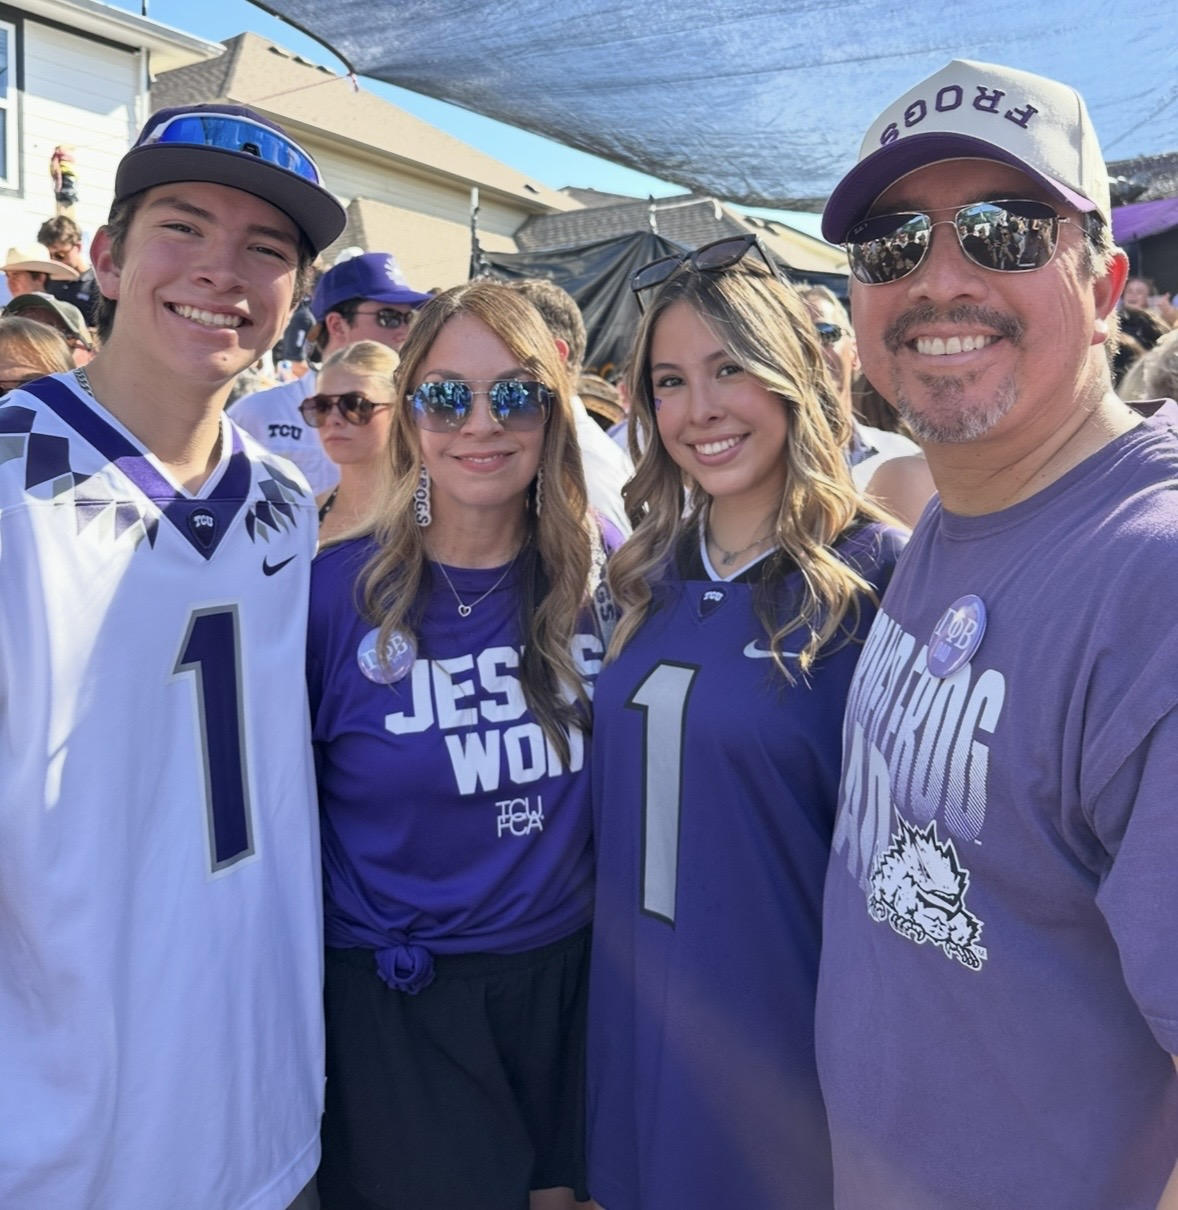
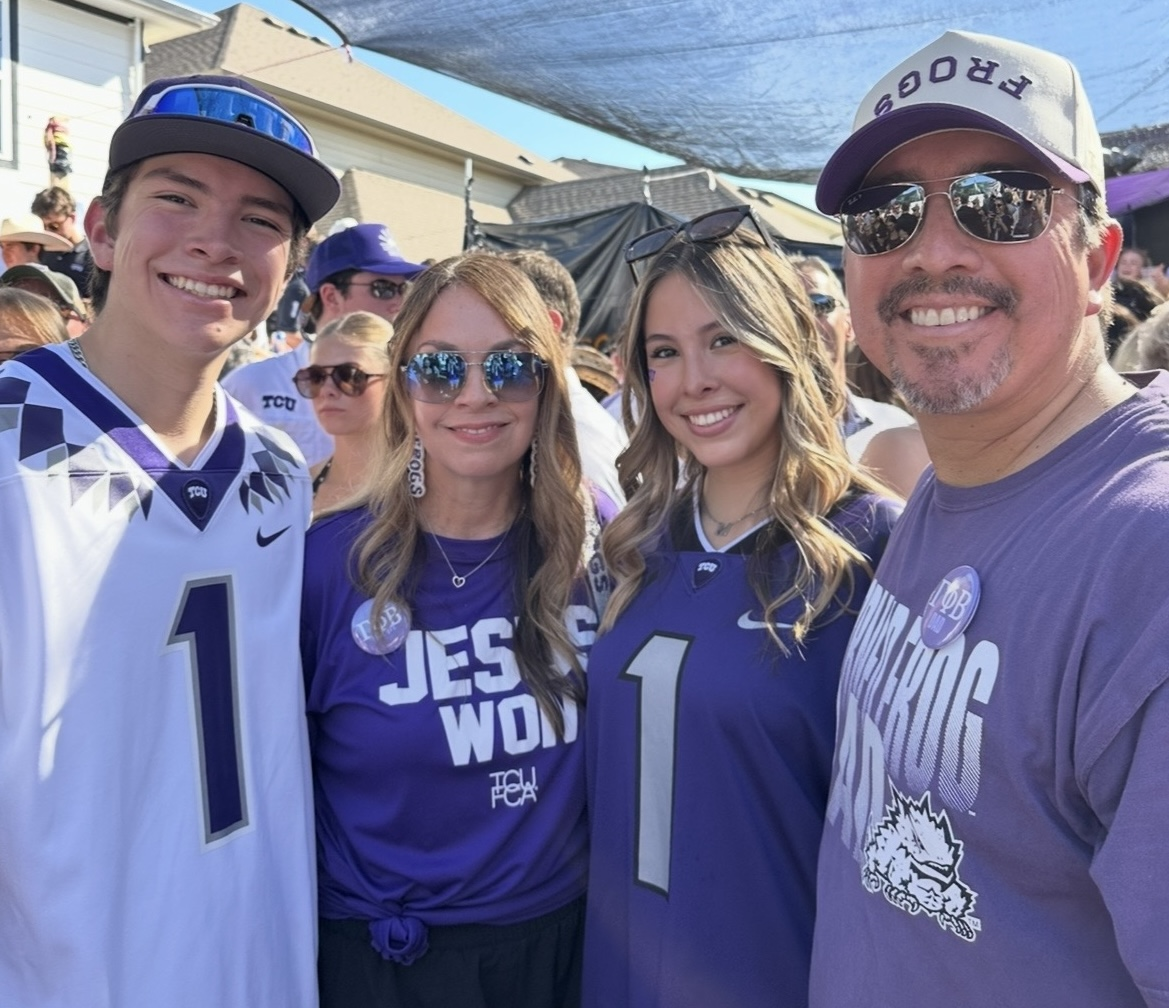
commit
clean up lab 07-08

diff --git a/css/styles.css b/css/styles.css
@@ -61,6 +61,7 @@ img {
     font-family: var(--font-stack);
 }
 
+
 h1 { font-size: var(--text-h1); line-height: var(--leading-heading); }
 h2 { font-size: var(--text-h2); line-height: var(--leading-heading); }
 h3 { font-size: var(--text-h3); line-height: var(--leading-heading); }
@@ -70,6 +71,7 @@ p { margin-bottom: var(--space-md); }
 p:last-child { margin-bottom: 0; }
 
 a { color: var(--color-accent); }
+ul { padding-left: var(--space-lg); }
 
 
 /* ==========================

diff --git a/index.html b/index.html
@@ -89,8 +89,11 @@
 
         <section id="contact">
             <h2>Contact</h2>
-            <p><a href="https://github.com/teriquint" target="_blank" rel="noopener">My GitHub</a></p>
-        </section>
+
+            <ul>
+                <li><a href="https://github.com/teriquint">My GitHub</a></li>
+            </ul>
+         </section>
 
     </main>
 

diff --git a/about.html b/about.html
@@ -3,7 +3,7 @@
 <head>
     <meta charset="UTF-8">
     <meta name="viewport" content="width=device-width, initial-scale=1.0">
-    <title>About Me | Teri Quintana</title>
+    <title>Teri Quintana | About Me</title>
     <link rel="stylesheet" href="css/styles.css">
 </head>
 
